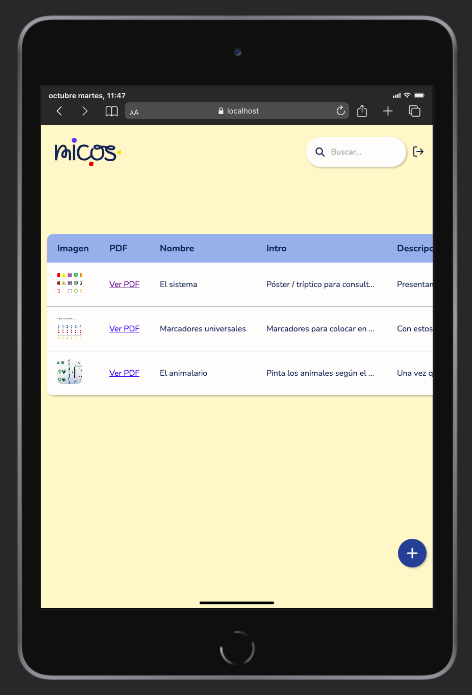
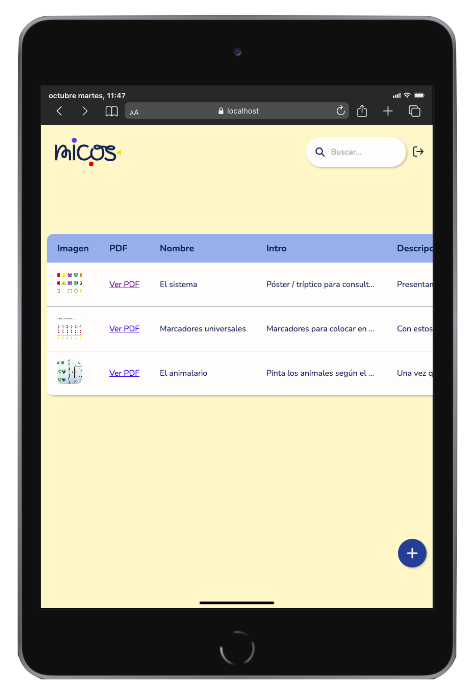
readme: updated photo styles

Changed region(s): [[0.0, 0.0, 1.0, 1.0]]

diff --git a/README.md b/README.md
@@ -2,7 +2,10 @@
 ## Una plataforma lúdica para el aprendizaje de colores en niños con daltonismo
 
 ### 🧩 Descripción
-![admin preview](src/assets/preview_admin.png)![user home preview](src/assets/preview_user.png)
+<p align="center">
+  <img src="src/assets/preview_admin.png" alt="admin preview" width="48%" />
+  <img src="src/assets/preview_user.png" alt="user home preview" width="48%" />
+</p>
 MICOS es una web (mobile-first) dirigida a niños y niñas de **entre 3 y 8 años** con daltonismo dicromático. Surge tras la creación del sistema visual "Micos color code", pensado para **facilitar la identificación de los colores** por parte de los peques con esta alteración visual. 
 
 Con la web se pretende que mediante una forma **lúdica, visual y sencilla**, continúen con el aprendizaje también a través de las pantallas. 
